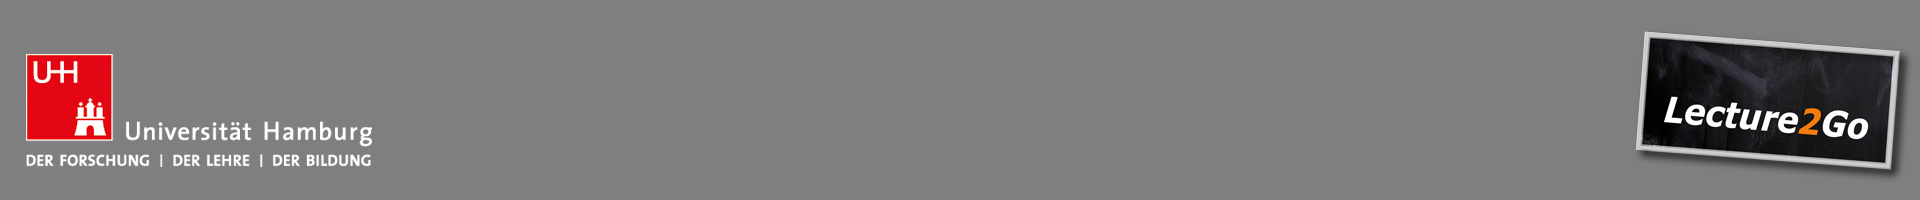
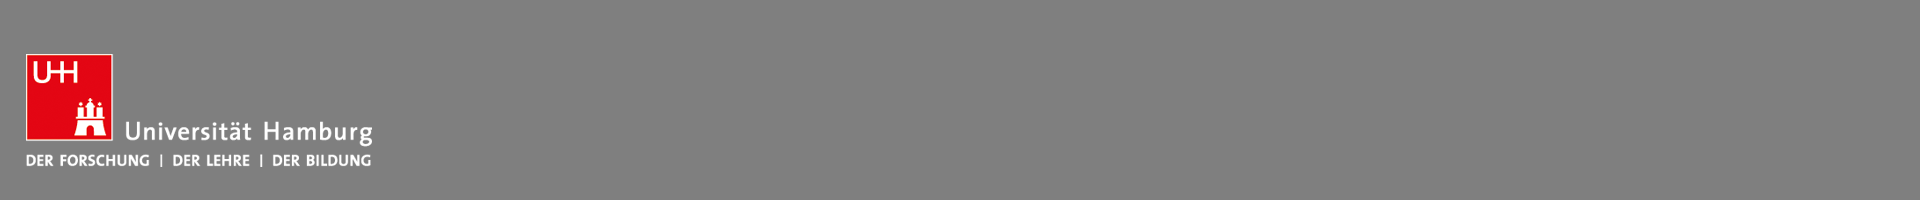
Add support for additional image
An additional image can be used. This is a concrete implementation to
support the creation of captions for a conference.

Changed region(s): [[0.8438, 0.15, 1.0, 0.9]]

diff --git a/imagebuilder/src/main/webapp/campusinno/index.html b/imagebuilder/src/main/webapp/campusinno/index.html
@@ -1,0 +1,71 @@
+<!DOCTYPE html>
+<html lang="de">
+<head>
+	<title>Lecture2Go Image Creator</title>  
+	<meta charset="UTF-8">
+	<link href="../css/bootstrap.css" rel="stylesheet"></link>
+	<link href="../css/jquery-ui.min.css" rel="stylesheet">
+	<script src="../js/jquery.js"></script>
+	<script src="../js/jquery-ui.min.js"></script>
+	<script src="../js/jquery-ui-i18n.min.js"></script>
+</head>
+<body>
+	<div class="container" style="margin-top:20px; width:300px;">
+		<h3>Campus Innovation - Legendengenerator</h1>
+	
+		<form class="form-horizontal" role="form" method="GET" action="../l2goimage" accept-charset="UTF-8">
+			<div class="form-group">
+		  		<label for="author">Vortragende/r:</label>
+		  		<input type="text" class="form-control" name="author">
+			</div>
+			<div class="form-group">
+			  <label for="institution">Institution:</label>
+			  <input type="text" class="form-control" name="institution">
+			</div>
+			<div class="form-group">
+			  <label for="lecture">Vortrag:</label>
+			  <input type="text" class="form-control" name="title">
+			</div>
+			
+
+			<div class="form-group">
+			  <label for="date">Datum:</label>
+			  <input type="text" class="form-control" name="date" id="datepicker">
+			</div>
+			<div class="form-group">
+			  <label for="series">Veranstaltungsreihentitel:</label>
+			  <input type="text" class="form-control" name="series" value="Campus Innovation 2018 - [TRACK]">
+			</div>
+			<div class="form-group">
+				<div class="radio">
+				  <label><input type="radio" name="type" value="speakerslides" checked="checked">Speaker/Slides</label>
+				</div>
+				<div class="radio">
+				  <label><input type="radio" name="type" value="speakeronly">Speaker only</label>
+				</div>
+			</div>
+			<div class="form-group">
+				<!--  <div class="radio">
+				  <label><input type="radio" name="downscale" value="true" checked="checked">Verkleinert (Pearl-Default)</label>
+				</div>-->
+				<div class="radio">
+				  <label><input type="radio" name="downscale" value="false" checked="checked">Originalgröße</label>
+				</div>
+			</div>
+			<input type="hidden" id="additionalimage" name="additionalimage" value="campusinno">
+			<div class="form-group">
+				<input id="submit" name="submit" type="submit" value="Bild erzeugen" class="btn btn-primary">
+			</div>
+		</form>
+	</div>
+	<script>
+		$( "#datepicker" ).datepicker();
+		$.datepicker.setDefaults(
+				  $.extend(
+				    {'dateFormat':'dd.mm.yyyy'},
+				    $.datepicker.regional['de']
+				  )
+				);
+	</script>
+</body>
+</html>

diff --git a/imagebuilder/src/main/java/de/uhh/l2g/util/L2goImageBuilderServlet.java b/imagebuilder/src/main/java/de/uhh/l2g/util/L2goImageBuilderServlet.java
@@ -5,6 +5,9 @@ import java.awt.RenderingHints;
 import java.awt.image.BufferedImage;
 import java.io.IOException;
 import java.io.InputStream;
+import java.util.HashMap;
+import java.util.Map;
+
 import javax.imageio.ImageIO;
 import javax.servlet.ServletException;
 import javax.servlet.http.HttpServlet;
@@ -14,11 +17,17 @@ import javax.servlet.http.HttpServletResponse;
 public class L2goImageBuilderServlet extends HttpServlet {
 	private static final long serialVersionUID = 1L;
 	
+	private static final Map<String, String> additionalImages = new HashMap<String, String>();
+
+	
     /**
      * @see HttpServlet#HttpServlet()
      */
     public L2goImageBuilderServlet() {
         super();
+        // create the map for accessing additional images
+        additionalImages.put("l2go", "/WEB-INF/l2go_logo_trans.png");
+        additionalImages.put("campusinno", "/WEB-INF/ci_logo.png");
     }
 
 	/**
@@ -35,12 +44,18 @@ public class L2goImageBuilderServlet extends HttpServlet {
 		String date = request.getParameter("date")!=null ? request.getParameter("date") : "";		
 		String type = request.getParameter("type")!=null ? request.getParameter("type") : "";
 		String downscale = request.getParameter("downscale")!=null ? request.getParameter("downscale") : "";
+		String additionalImage = (request.getParameter("additionalimage")!=null || additionalImages.get(request.getParameter("additionalimage"))!=null) ? request.getParameter("additionalimage") : null;
 
 		
 		if (type.equals("speakerslides")) {
 			SpeakerSlidesL2goImageBuilder imageBuilder = new SpeakerSlidesL2goImageBuilder(author, institution, title, series, date);
 			InputStream backgroundimageStream = getServletContext().getResourceAsStream("/WEB-INF/generic_speaker_slides.png");
 			imageBuilder.setBackgroundimageStream(backgroundimageStream);
+			
+			if (additionalImage != null) {
+				InputStream additionalImageStream = getServletContext().getResourceAsStream(additionalImages.get(additionalImage));
+				imageBuilder.setAdditionalImageStream(additionalImageStream);
+			}
 
 			imageBuilder.setFontSize(30.0f);
 			initializeFonts(imageBuilder);
@@ -62,6 +77,15 @@ public class L2goImageBuilderServlet extends HttpServlet {
 			SpeakerOnlyL2goImageBuilder imageBuilder = new SpeakerOnlyL2goImageBuilder(author, institution, title, series, date);
 			InputStream backgroundimageStream = getServletContext().getResourceAsStream("/WEB-INF/generic_speakeronly.png");
 			imageBuilder.setBackgroundimageStream(backgroundimageStream);
+			
+			if (additionalImage != null) {
+				InputStream additionalImageStream = getServletContext().getResourceAsStream(additionalImages.get(additionalImage));
+				imageBuilder.setAdditionalImageStream(additionalImageStream);
+			} else {
+		   		// the l2go logo is used if no additional image is set 
+				InputStream additionalImageStream = getServletContext().getResourceAsStream(additionalImages.get("l2go"));
+				imageBuilder.setAdditionalImageStream(additionalImageStream);
+			}
 
 			imageBuilder.setFontSize(40.0f);
 

diff --git a/imagebuilder/src/main/java/de/uhh/l2g/util/L2goImageBuilder.java b/imagebuilder/src/main/java/de/uhh/l2g/util/L2goImageBuilder.java
@@ -29,6 +29,10 @@ public abstract class L2goImageBuilder {
 	// the distance from the image-border to the start of text in pixels
 	int offsetLeft;
 	int offsetRight;
+	
+	// the position of the additional image if there is any
+	int offsetLeftAdditionalImage;
+	int offsetTopAdditionalImage;
 
 	// font configuration
 	InputStream fontRegularStream;
@@ -46,6 +50,9 @@ public abstract class L2goImageBuilder {
 	// the background image used
 	InputStream backgroundimageStream;
 	
+	// additional image
+	InputStream additionalImageStream;
+	
 	// the metadata which will be written to the image
 	String author;
 	String institution;
@@ -54,6 +61,7 @@ public abstract class L2goImageBuilder {
 	String date;
 	
 	BufferedImage image;
+	BufferedImage additionalImage;
 	Graphics2D g;
 	
 	/**
@@ -82,6 +90,10 @@ public abstract class L2goImageBuilder {
 		try {
 			// load the background image on which the text will be written
 			this.image = this.loadBackgroundimage();
+			
+			if (this.additionalImageStream != null) {
+				this.additionalImage = this.loadAdditionalImage();
+			}
 	
 			// we need the graphic context
 			this.g = this.buildGraphicContextFromImage(image);
@@ -124,6 +136,16 @@ public abstract class L2goImageBuilder {
 	 */
 	public BufferedImage loadBackgroundimage() throws IOException {
 		BufferedImage image = ImageIO.read(this.backgroundimageStream);
+	    return image;
+	}
+	
+	/**
+	 * Loads the additional image from a file
+	 * @return the additional image
+	 * @throws IOException
+	 */
+	public BufferedImage loadAdditionalImage() throws IOException {
+		BufferedImage image = ImageIO.read(this.additionalImageStream);
 	    return image;
 	}
 	
@@ -196,6 +218,17 @@ public abstract class L2goImageBuilder {
             curX = x;
         }
         return linesCount;
+    }
+    
+    /**
+     * 
+     * @param g the Graphics context
+     * @param additionalImage the additional image to be drawn
+     * @param x x-coordinate of the position, where the image is drawn 
+     * @param y y-coordinate of the position, where the text is drawn
+     */
+    protected void drawAdditionalImage(Graphics g, BufferedImage additionalImage, int x, int y) {
+		g.drawImage(additionalImage, x, y, null);
     }
 
     /**
@@ -323,6 +356,22 @@ public abstract class L2goImageBuilder {
      */
     public InputStream getBackgroundimageStream() {
     	return this.backgroundimageStream;
+    }
+    
+    /**
+     * Sets the additionalimage-stream
+     * @param backgroundimagePath the additionalImage-stream
+     */
+    public void setAdditionalImageStream(InputStream additionalImageStream) {
+    	this.additionalImageStream = additionalImageStream;
+    }
+    
+    /**
+     * Gets the additionalImage-path
+     * @return the additionalImage-path
+     */
+    public InputStream getAdditionalImageStream() {
+    	return this.additionalImageStream;
     }
 
     /**

diff --git a/imagebuilder/src/main/java/de/uhh/l2g/util/SpeakerSlidesL2goImageBuilder.java b/imagebuilder/src/main/java/de/uhh/l2g/util/SpeakerSlidesL2goImageBuilder.java
@@ -26,6 +26,9 @@ public class SpeakerSlidesL2goImageBuilder extends L2goImageBuilder {
 		this.offsetLeft = 10;
 		this.offsetRight = 10;
 		
+		// the position of the additional image if there is any
+		this.offsetLeftAdditionalImage = 450;
+		this.offsetTopAdditionalImage = 398;
 	}
 
 	/**
@@ -71,6 +74,12 @@ public class SpeakerSlidesL2goImageBuilder extends L2goImageBuilder {
     	    seriesPosition = 344;
 	  	}
 	   	this.drawString(this.g, seriesAndDate, this.offsetLeft, seriesPosition, this.maxTextWidth, 2);
+	   	
+	   	// if there is an additional Image, draw it
+	   	if (this.additionalImage != null) {
+	   		this.additionalImage = this.scaleImage(this.additionalImage, 165, 58);
+		   	this.drawAdditionalImage(this.g, this.additionalImage, this.offsetLeftAdditionalImage, this.offsetTopAdditionalImage);
+	   	}
 	   	
 	    // clean up
 	    this.g.dispose();

diff --git a/imagebuilder/src/main/java/de/uhh/l2g/util/SpeakerOnlyL2goImageBuilder.java b/imagebuilder/src/main/java/de/uhh/l2g/util/SpeakerOnlyL2goImageBuilder.java
@@ -99,6 +99,17 @@ public class SpeakerOnlyL2goImageBuilder extends L2goImageBuilder {
 
 	   	this.drawString(this.g, seriesAndDate, this.offsetLeft, seriesYPosition, this.maxTextWidth, 1);
 	   	
+	   	// if there is an additional Image, draw it
+	   	if (this.additionalImage != null) {
+			// the image should be drawn in the middle position with an offset of 20 from the right side
+			int leftOffset = this.imageWidth - 20;
+			int center = this.image.getHeight()/2;
+			int x = leftOffset - this.additionalImage.getWidth();
+			int y = center - this.additionalImage.getHeight()/2;
+			
+		   	this.drawAdditionalImage(this.g, this.additionalImage, x, y);
+	   	}
+	   	
 	    // clean up
 	    this.g.dispose();
     	
